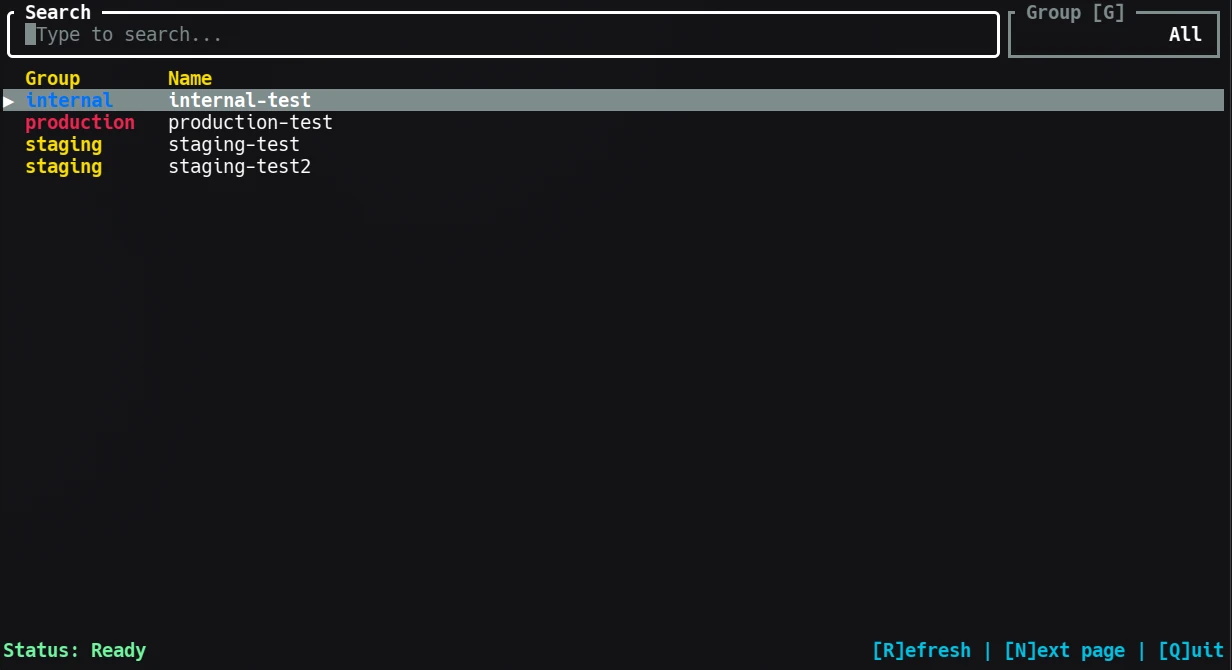
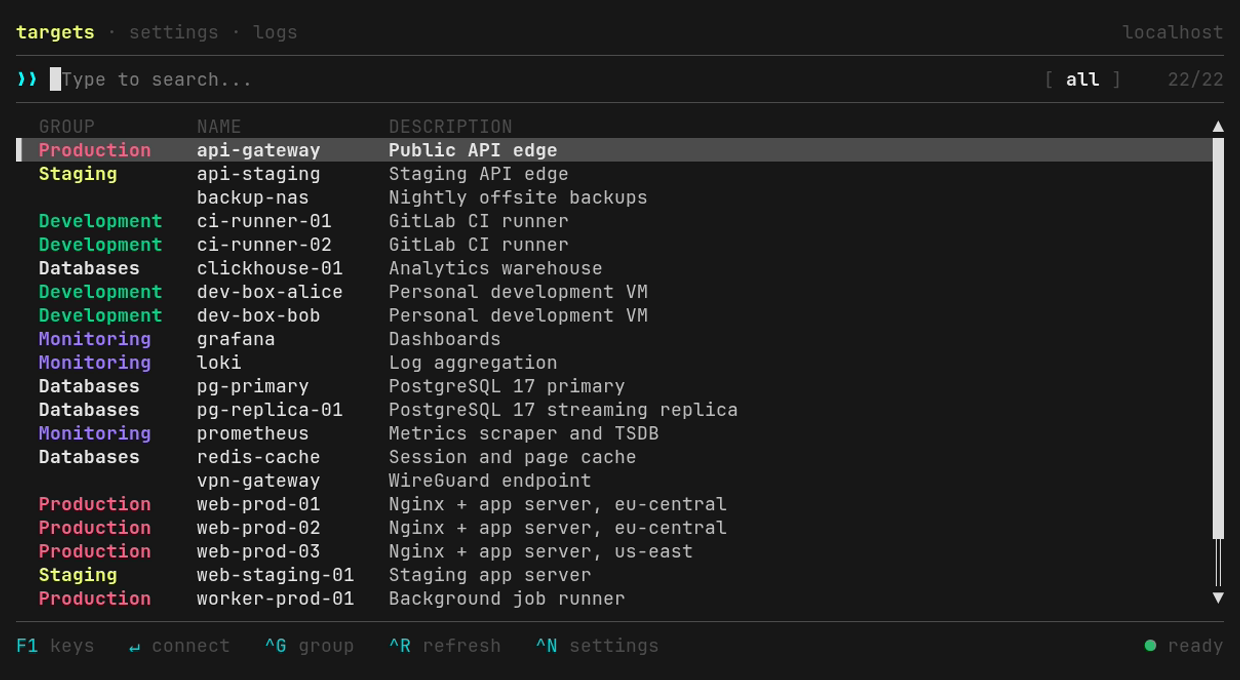
feat: readme facelift (#20)

diff --git a/src/config.rs b/src/config.rs
@@ -1,3 +1,5 @@
+use std::path::{Path, PathBuf};
+
 use color_eyre::eyre::{Context, eyre};
 use serde::{Deserialize, Serialize};
 
@@ -9,10 +11,13 @@ pub struct AppConfig {
     pub warpgate_token: Option<String>,
     pub warpgate_username: Option<String>,
     pub warpgate_port: Option<u16>,
+
+    #[serde(skip)]
+    pub path: PathBuf,
 }
 
 impl AppConfig {
-    pub fn get_config_file_path() -> color_eyre::Result<std::path::PathBuf> {
+    pub fn get_config_file_path() -> color_eyre::Result<PathBuf> {
         let project_dirs =
             directories::ProjectDirs::from("com", "warpgate-connect", "warpgate-connect")
                 .ok_or_else(|| eyre!("Could not determine the user configuration directory"))?;
@@ -20,11 +25,10 @@ impl AppConfig {
         Ok(project_dirs.config_dir().join("config.toml"))
     }
 
-    pub fn load() -> color_eyre::Result<Self> {
-        let config_path = Self::get_config_file_path()?;
+    pub fn load(config_path: &Path) -> color_eyre::Result<Self> {
         tracing::info!(path = %config_path.display(), "Loading configuration");
 
-        let text = match std::fs::read_to_string(&config_path) {
+        let text = match std::fs::read_to_string(config_path) {
             Ok(text) => text,
             Err(e) if e.kind() == std::io::ErrorKind::NotFound => String::new(),
             Err(e) => {
@@ -38,6 +42,7 @@ impl AppConfig {
                 config_path.display()
             )
         })?;
+        app_config.path = config_path.to_path_buf();
         app_config
             .warpgate_port
             .get_or_insert(DEFAULT_WARPGATE_PORT);
@@ -55,7 +60,7 @@ impl AppConfig {
     }
 
     pub fn save(&self) -> color_eyre::Result<()> {
-        let config_path = Self::get_config_file_path()?;
+        let config_path = &self.path;
         tracing::info!(path = %config_path.display(), "Saving configuration");
 
         if let Some(parent) = config_path.parent() {
@@ -64,7 +69,7 @@ impl AppConfig {
         }
 
         let toml_string = toml::to_string_pretty(self)?;
-        std::fs::write(&config_path, toml_string)
+        std::fs::write(config_path, toml_string)
             .with_context(|| format!("Failed to write {}", config_path.display()))?;
 
         tracing::info!(path = %config_path.display(), "Configuration saved");
@@ -78,3 +83,7 @@ impl AppConfig {
             && self.warpgate_port.is_some()
     }
 }
+
+#[cfg(test)]
+#[path = "config_test.rs"]
+mod tests;

diff --git a/src/main.rs b/src/main.rs
@@ -1,3 +1,5 @@
+use std::path::{Path, PathBuf};
+
 use clap::Parser;
 use tokio::process;
 use tracing_subscriber::{EnvFilter, layer::SubscriberExt, util::SubscriberInitExt};
@@ -23,6 +25,14 @@ struct Args {
         help = "Skip the update check and proceed directly to the application."
     )]
     skip_update: bool,
+
+    #[arg(
+        long,
+        global = true,
+        value_name = "PATH",
+        help = "Read and save the configuration at PATH instead of the default location."
+    )]
+    config: Option<PathBuf>,
 
     #[command(subcommand)]
     command: Option<Command>,
@@ -56,13 +66,13 @@ async fn execute_connection(connection: &Connection) -> color_eyre::Result<()> {
     Ok(())
 }
 
-async fn async_main(skip_update: bool) -> color_eyre::Result<()> {
+async fn async_main(config_path: &Path, skip_update: bool) -> color_eyre::Result<()> {
     tracing::info!(
         version = env!("CARGO_PKG_VERSION"),
         "Starting warpgate-connect"
     );
 
-    let config = config::AppConfig::load()?;
+    let config = config::AppConfig::load(config_path)?;
 
     let terminal = ratatui::init();
     let outcome = App::new(config, skip_update).run(terminal).await;
@@ -87,13 +97,20 @@ async fn async_main(skip_update: bool) -> color_eyre::Result<()> {
 }
 
 fn run_tokio_main(args: Args) -> color_eyre::Result<()> {
+    let config_path = match args.config {
+        Some(path) => path,
+        None => config::AppConfig::get_config_file_path()?,
+    };
+
     tokio::runtime::Builder::new_multi_thread()
         .enable_all()
         .build()?
         .block_on(async {
             match args.command {
-                Some(Command::List) => list::print_targets(config::AppConfig::load()?).await,
-                None => async_main(args.skip_update).await,
+                Some(Command::List) => {
+                    list::print_targets(config::AppConfig::load(&config_path)?).await
+                }
+                None => async_main(&config_path, args.skip_update).await,
             }
         })?;
 

diff --git a/src/config_test.rs b/src/config_test.rs
@@ -1,0 +1,51 @@
+use tempfile::TempDir;
+
+use super::*;
+
+#[test]
+fn loading_a_missing_file_writes_defaults_to_the_given_path() {
+    let dir = TempDir::new().unwrap();
+    let config_path = dir.path().join("nested").join("config.toml");
+
+    let config = AppConfig::load(&config_path).unwrap();
+
+    assert_eq!(config.path, config_path);
+    assert_eq!(config.warpgate_port, Some(DEFAULT_WARPGATE_PORT));
+    assert!(!config.are_all_required_fields_set());
+
+    let written = AppConfig::load(&config_path).unwrap();
+    assert_eq!(written.warpgate_port, Some(DEFAULT_WARPGATE_PORT));
+    assert_eq!(written.warpgate_api_url, None);
+}
+
+#[test]
+fn saved_config_loads_back_from_the_same_path() {
+    let dir = TempDir::new().unwrap();
+    let config_path = dir.path().join("config.toml");
+
+    AppConfig {
+        warpgate_api_url: Some("https://localhost:8888/@warpgate/api/targets".into()),
+        warpgate_token: Some("secret-token".into()),
+        warpgate_username: Some("admin".into()),
+        warpgate_port: Some(2022),
+        path: config_path.clone(),
+    }
+    .save()
+    .unwrap();
+
+    let config = AppConfig::load(&config_path).unwrap();
+
+    assert_eq!(config.path, config_path);
+    assert_eq!(
+        config.warpgate_api_url.as_deref(),
+        Some("https://localhost:8888/@warpgate/api/targets")
+    );
+    assert_eq!(config.warpgate_token.as_deref(), Some("secret-token"));
+    assert_eq!(config.warpgate_username.as_deref(), Some("admin"));
+    assert_eq!(config.warpgate_port, Some(2022));
+}
+
+#[test]
+fn saving_a_config_without_a_path_fails_instead_of_touching_the_real_file() {
+    assert!(AppConfig::default().save().is_err());
+}

diff --git a/src/list.rs b/src/list.rs
@@ -7,18 +7,16 @@ use crate::{
 };
 
 pub async fn print_targets(config: AppConfig) -> color_eyre::Result<()> {
-    let config_path = AppConfig::get_config_file_path()?;
-
     let warpgate_api_url = config.warpgate_api_url.as_deref().ok_or_else(|| {
         eyre!(
             "Warpgate API URL is not configured in {}",
-            config_path.display()
+            config.path.display()
         )
     })?;
     let warpgate_username = config.warpgate_username.as_deref().ok_or_else(|| {
         eyre!(
             "Warpgate username is not configured in {}",
-            config_path.display()
+            config.path.display()
         )
     })?;
 

diff --git a/src/app_test.rs b/src/app_test.rs
@@ -415,6 +415,7 @@ fn configured_app() -> App<'static> {
             warpgate_token: Some("secret-token".into()),
             warpgate_username: Some("admin".into()),
             warpgate_port: Some(2222),
+            ..AppConfig::default()
         },
         true,
     )

diff --git a/README.md b/README.md
@@ -5,7 +5,7 @@ A TUI client for [Warpgate](https://github.com/warp-tech/warpgate) — a smart S
 ![Rust](https://img.shields.io/badge/rust-stable-orange)
 ![License](https://img.shields.io/github/license/Stax124/warpgate-connect)
 
-![warpgate-connect](/shared/img/warpgate-connect.webp)
+![warpgate-connect](/shared/img/warpgate-connect.gif)
 
 ## Features
 
@@ -82,6 +82,7 @@ Commands:
 
 Options:
   --skip-update    Skip the GitHub update check on startup
+  --config <PATH>  Read and save the configuration at PATH instead of the default location
   -h, --help       Print help
   -V, --version    Print version
 ```
@@ -109,4 +110,3 @@ Options:
 | `Backspace`          | Delete last search character               |
 | `Ctrl+A`             | Select all text (search / settings fields) |
 | `Tab` / `Shift+Tab`  | Navigate between settings fields           |
-

diff --git a/CLAUDE.md b/CLAUDE.md
@@ -16,6 +16,7 @@ cargo test
 cargo fmt                                   # `cargo fmt --check` must stay clean
 cargo clippy --all-targets -- -D warnings   # CI denies warnings
 cargo run -- --skip-update                  # run without the update check
+dev/scaffold.sh                             # local seeded Warpgate; then `cargo run -- --config data/config.toml`
 cargo build --release --target x86_64-unknown-linux-musl   # what releases ship
 ```
 
